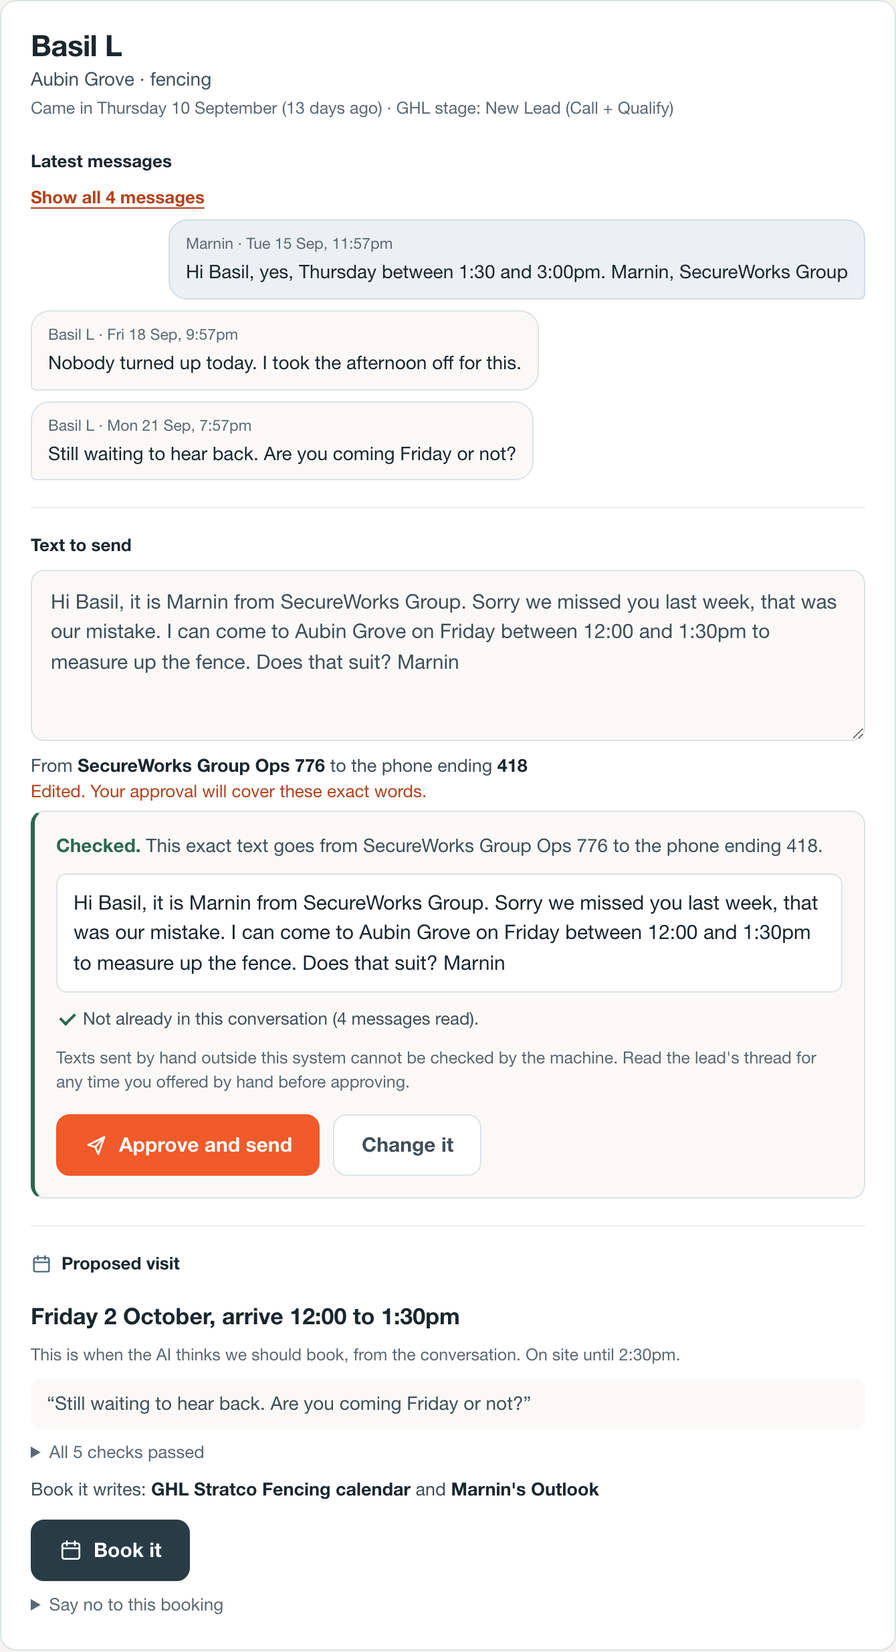
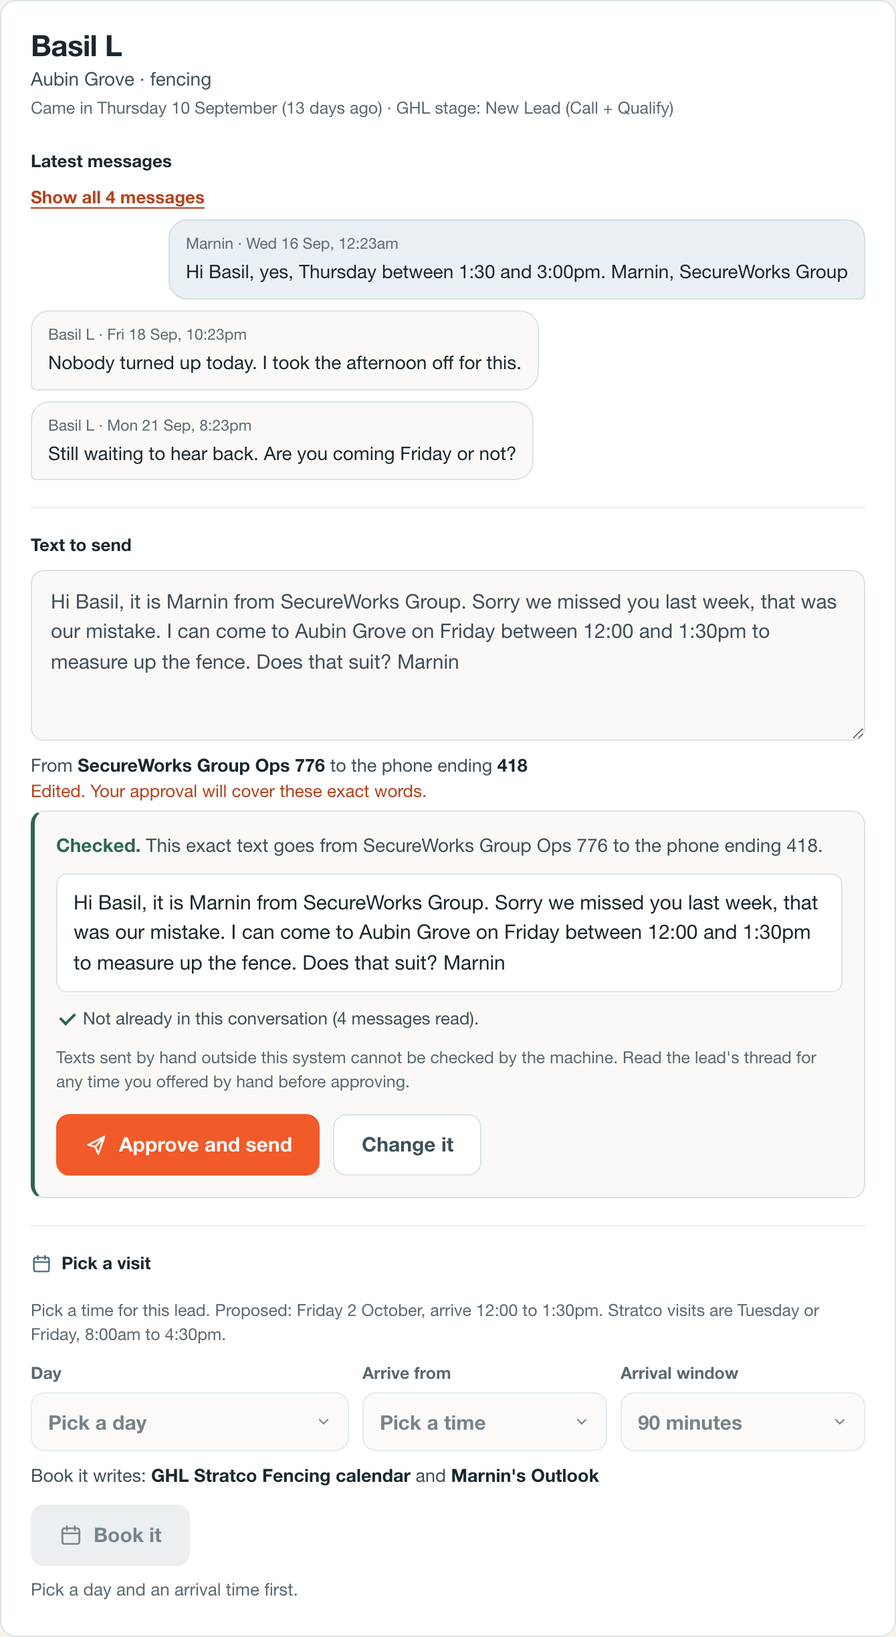
no-mistakes(review): Hold picked visits and refresh day occupancy

diff --git a/modules/ops-sales-booking.js b/modules/ops-sales-booking.js
@@ -1786,7 +1786,9 @@
     var a = Date.parse(startIso), b = Date.parse(endIso);
     if (!(b > a)) return null;
     var ev = diary().filter(function (row) {
-      return row.kind !== 'reservation' && diaryOccupiesDay(row) && Date.parse(row.start_iso) < b && Date.parse(row.end_iso) > a;
+      if (row.kind === 'reservation' || !diaryOccupiesDay(row)) return false;
+      if (c && ((row.contact_id && row.contact_id === c.contact_id) || diaryEventMatchesCase(row, c))) return false;
+      return Date.parse(row.start_iso) < b && Date.parse(row.end_iso) > a;
     })[0];
     if (ev) return { kind: 'calendar', label: eventTitle(ev), at: clockLabel(hourFromIso(ev.start_iso)), source: sourceLabel(ev) };
     var hold = commitmentSlots().filter(function (s) {
@@ -2862,25 +2864,22 @@
     return (ob && ob.rulebook) || (flow && flow.owner_rulebook) || null;
   }
 
-  function hasEngineProposal(c) {
-    var m = decisionModel(c);
-    return !!(m && m.proposal);
-  }
-
   // The engine's own template, unedited and pressable, stays on the engine path
-  // exactly as before. Anything else the owner writes goes the owner's way. A
-  // read that does not offer the owner's way leaves the screen as it was.
+  // exactly as before. A picked time, or anything else the owner writes, goes
+  // the owner's way so a sent text can hold that slot. A read that does not
+  // offer the owner's way leaves the screen as it was.
   function messagePath(c) {
     if (!ownerFlow()) return 'engine';
+    if (ownerVisit(c)) return 'owner';
     var m = decisionModel(c);
     if (m && editedText(c) == null && m.message && m.message.template_locked && m.message.text && approvalBlock(c, 'message', false, true) === '') return 'engine';
     return 'owner';
   }
 
-  // A lead with a proposed time keeps Book it for that time. Without one the
-  // owner picks the day and the arrival window himself.
+  // Every Stratco card on the owner's path gets a picker so a blocked or
+  // unwanted proposal is never the only time on that card.
   function calendarPath(c) {
-    return !ownerFlow() || hasEngineProposal(c) ? 'engine' : 'owner';
+    return ownerFlow() ? 'owner' : 'engine';
   }
 
   function minutesOf(clock) {
@@ -2925,7 +2924,7 @@
 
   function ownerPick(c) {
     var key = draftKey(c), rb = ownerRulebook(c);
-    if (!state.ownerVisits[key]) state.ownerVisits[key] = { date: '', start: '', minutes: rb ? Number(rb.window_max_minutes) : 90, offer: true };
+    if (!state.ownerVisits[key]) state.ownerVisits[key] = { date: '', start: '', minutes: rb ? Number(rb.window_max_minutes) : 90 };
     return state.ownerVisits[key];
   }
 
@@ -2942,19 +2941,11 @@
     return { window_start_iso: at(s), window_end_iso: at(s + minutes), end_iso: at(s + minutes + Number(rb.visit_minutes)) };
   }
 
-  // A text sent with a picked time carries it as the offer, so the server holds
-  // that time for this lead and refuses it to anyone else.
-  function ownerOffer(c) {
-    if (hasEngineProposal(c)) return null;
-    var pick = state.ownerVisits[draftKey(c)];
-    return pick && pick.offer !== false ? ownerVisit(c) : null;
-  }
-
   function ownerInput(c, kind) {
     var input = { step: kind, case_id: c.id, contact_id: c.contact_id, week_start: state.weekStart, resource: 'marnin' };
     if (kind === 'message') {
       input.text = composeText(c);
-      var offer = ownerOffer(c);
+      var offer = ownerVisit(c);
       if (offer) input.offer = offer;
     } else {
       input.visit = ownerVisit(c);
@@ -3123,8 +3114,64 @@
     result.input = preview.input;
     delete state.ownerPreviews[key];
     state.pressResults[key] = result;
+    if (result.done) rememberOccupancy(c, result);
     render();
     return { ok: !!result.done, result: result };
+  }
+
+  function occupancyVisit(result) {
+    var ct = result && result.snapshot && result.snapshot.content || {};
+    var offer = ct.offer;
+    if (offer && offer.window_start_iso && offer.end_iso) return { start: offer.window_start_iso, end: offer.end_iso, title: null, book: false };
+    if (ct.window_start_iso && ct.end_iso) return { start: ct.window_start_iso, end: ct.end_iso, title: ct.title || null, book: result.snapshot.step === 'calendar' };
+    if (ct.start_iso && ct.end_iso) return { start: ct.start_iso, end: ct.end_iso, title: ct.title || null, book: result.snapshot.step === 'calendar' };
+    return null;
+  }
+
+  function rememberOccupancy(c, result) {
+    if (!result || !result.done || !c || !state.data) return;
+    var visit = occupancyVisit(result);
+    if (!visit || !(Date.parse(visit.end) > Date.parse(visit.start))) return;
+    if (visit.book) rememberBookedVisit(c, visit);
+    else rememberOfferedVisit(c, visit);
+  }
+
+  function rememberBookedVisit(c, visit) {
+    var data = state.data;
+    if (!Array.isArray(data.diary)) data.diary = [];
+    var title = visit.title && /^scope:\s*/i.test(visit.title) ? visit.title
+      : ('Scope: ' + (c.display_name || 'visit') + (c.suburb ? ', ' + c.suburb : ''));
+    if (data.diary.some(function (ev) {
+      return (ev.contact_id && ev.contact_id === c.contact_id && (ev.start === visit.start || ev.start_iso === visit.start))
+        || (ev.start === visit.start && ev.end === visit.end && ev.title === title);
+    })) return;
+    data.diary.push({
+      event_id: 'owner-booked-' + (c.contact_id || c.id) + '-' + visit.start,
+      contact_id: c.contact_id,
+      opportunity_id: c.opportunity_id || c.id,
+      start: visit.start,
+      end: visit.end,
+      title: title,
+      kind: 'busy',
+      source: 'ghl_calendar',
+      blocks_capacity: true
+    });
+  }
+
+  function rememberOfferedVisit(c, visit) {
+    var flow = state.data.booking_flow;
+    if (!flow) return;
+    if (!Array.isArray(flow.commitments)) flow.commitments = [];
+    if (flow.commitments.some(function (s) {
+      return s.contact_id === c.contact_id && s.start_iso === visit.start && s.end_iso === visit.end;
+    })) return;
+    flow.commitments.push({
+      id: 'owner-offer-' + (c.contact_id || c.id) + '-' + visit.start,
+      contact_id: c.contact_id,
+      state: 'offered',
+      start_iso: visit.start,
+      end_iso: visit.end
+    });
   }
 
   // Busy while a check is open or anything is in flight, so the words and the
@@ -3183,11 +3230,12 @@
     var recipient = m && m.message && m.message.recipient;
     var block = ownerPressBlock(c, 'message');
     var last = state.pressResults[key];
-    var clash = clashFor(c);
+    var held = ownerVisit(c);
+    var clash = held ? clashForSpan(c, held.window_start_iso, held.end_iso) : clashFor(c);
     var out = '<p class="route">From <b>' + esc(senderShort(sender)) + '</b>' +
       (recipient ? ' to the phone ending <b>' + esc(phoneEnding(recipient)) + '</b>' : ' to the customer\'s mobile in GHL') + '</p>';
     if (m && editedText(c) != null) out += '<p class="edited">Edited. Your approval will cover these exact words.' + (composeBusy(c) ? '' : ' <button type="button" class="linklike" data-booking-draft-reset>Use the proposed text</button>') + '</p>';
-    out += renderOfferChoice(c);
+    if (held) out += '<p class="fine">This text holds ' + esc(visitWords(held)) + ' for them.</p>';
     if (clash) out += '<p class="clash">' + esc(clashSentence(clash)) + '</p>';
     if (preview) {
       out += renderOwnerPreview(c, 'message', preview);
@@ -3196,17 +3244,6 @@
         (block && !state.pressPending[key] && !state.approvalPending[key] && !(last && last.done) ? '<p class="why" id="why-message">' + esc(block) + '</p>' : '');
     }
     return out + (m ? channelLine(c, 'message') : '') + renderResult(c, 'message');
-  }
-
-  // With a picked time and no proposed one, the text carries that time as its
-  // offer unless the owner unticks it.
-  function renderOfferChoice(c) {
-    if (hasEngineProposal(c)) return '';
-    var v = ownerVisit(c);
-    if (!v) return '';
-    var pick = state.ownerVisits[draftKey(c)];
-    return '<label class="offer"><input type="checkbox" data-owner-offer data-focus-key="offer-' + esc(c.id) + '"' + (pick.offer !== false ? ' checked' : '') + (pickerBusy(c) ? ' disabled' : '') + '>' +
-      '<span>Hold ' + esc(visitWords(v)) + ' for them with this text</span></label>';
   }
 
   function renderOwnerVisit(c) {
@@ -3227,9 +3264,11 @@
     var last = state.pressResults[key];
     var clash = v && clashForSpan(c, v.window_start_iso, v.end_iso);
     var days = (rb.days || []).map(function (d) { return WEEKDAY_NAMES[d] || d; });
-    var lead = m && m.reason && m.reason !== 'No validated AI proposal in this read.'
-      ? 'No confident proposed time: ' + m.reason
-      : 'No proposed time for this lead, so pick one.';
+    var lead = m && m.proposal
+      ? 'Pick a time for this lead. Proposed: ' + longDate(String(m.proposal.window_start_iso || m.proposal.start_iso).slice(0, 10)) + ', arrive ' + timeRange(m.proposal.window_start_iso, m.proposal.window_end_iso) + '.'
+      : (m && m.reason && m.reason !== 'No validated AI proposal in this read.'
+        ? 'No confident proposed time: ' + m.reason
+        : 'No proposed time for this lead, so pick one.');
     var rules = days.length ? ' Stratco visits are ' + days.join(' or ') + ', ' + clockLabel(minutesOf(rb.day_start) / 60) + ' to ' + clockLabel(minutesOf(rb.day_end) / 60) + '.' : '';
     function option(value, label, on) { return '<option value="' + esc(value) + '"' + (on ? ' selected' : '') + '>' + esc(label) + '</option>'; }
     var picker = '<div class="pick">' +
@@ -3425,6 +3464,7 @@
       delete state.pressPending[key];
     }
     state.pressResults[key] = result;
+    if (result.done) rememberOccupancy(c, result);
     if (result.done && sameContent(approvalSnapshot(c, kind), snap)) {
       var channel = c.booking_read_model[kind === 'calendar' ? 'calendar_write' : 'message'];
       channel.state = 'succeeded';
@@ -3901,14 +3941,13 @@
         reviseProposedTime(e.target.value);
         render();
       }
-      if (e.target.matches && e.target.matches('[data-owner-visit], [data-owner-offer]')) {
+      if (e.target.matches && e.target.matches('[data-owner-visit]')) {
         var pc = selectedCase();
         if (!pc || pickerBusy(pc) || !ownerRulebook(pc)) return render();
         var pick = ownerPick(pc);
         var field = e.target.getAttribute('data-owner-visit');
         if (field === 'minutes') pick.minutes = Number(e.target.value);
         else if (field) pick[field] = e.target.value;
-        else pick.offer = !!e.target.checked;
         // A start the new day or window no longer allows is cleared, never kept.
         if (pick.start && ownerStarts(ownerRulebook(pc), pick.date, Number(pick.minutes)).indexOf(pick.start) < 0) pick.start = '';
         delete state.approvalErrors[approvalKey(pc, 'calendar')];

diff --git a/tests/e2e/sales-booking-redesign.spec.js b/tests/e2e/sales-booking-redesign.spec.js
@@ -40,10 +40,11 @@ for (const vp of viewports) {
       await expect(page.getByRole('button', { name: 'Show all 4 messages' })).toBeVisible();
       await expect(page.locator('.route')).toContainText('SecureWorks Group Ops 776');
       await expect(page.locator('.route')).toContainText('phone ending 418');
-      await expect(page.locator('.visit .when')).toContainText('arrive 12:00 to 1:30pm');
+      await expect(page.getByRole('combobox', { name: 'Visit day' })).toBeVisible();
+      await expect(page.locator('.visit .fine').first()).toContainText('arrive 12:00 to 1:30pm');
       await expect(page.locator('.targets')).toHaveText("Book it writes: GHL Stratco Fencing calendar and Marnin's Outlook");
       await expect(page.getByRole('button', { name: 'Send this text' })).toBeEnabled();
-      await expect(page.getByRole('button', { name: 'Book it' })).toBeEnabled();
+      await expect(page.getByRole('button', { name: 'Book it' })).toBeDisabled();
       const day = page.locator('.bk-day');
       await expect(day.locator('h2')).toContainText('Friday');
       await expect(day.locator('.src-outlook').first()).toBeVisible();
@@ -59,8 +60,8 @@ for (const vp of viewports) {
     test('a clash names the other booking and blocks booking, not the text', async ({ page }) => {
       await open(page);
       await choose(page, 'Kerry P');
-      await expect(page.locator('.visit .clash')).toHaveText('Clashes with Scope: Melanie N, Piara Waters at 10:45am (Outlook).');
       await expect(page.locator('.compose .clash')).toHaveText('Clashes with Scope: Melanie N, Piara Waters at 10:45am (Outlook).');
+      await expect(page.getByRole('combobox', { name: 'Visit day' })).toBeVisible();
       await expect(page.getByRole('button', { name: 'Book it' })).toBeDisabled();
       await expect(page.getByRole('button', { name: 'Send this text' })).toBeEnabled();
       const slot = page.locator('.bk-day .ev.is-clash', { hasText: 'Kerry P' });
@@ -153,8 +154,35 @@ for (const vp of viewports) {
       await page.getByRole('button', { name: 'Send this text' }).click();
       await expect(page.locator('.compose .result')).toContainText(/Text sent at \d{1,2}:\d{2}[ap]m from SecureWorks Group Ops 776 to the phone ending 418\./);
       await expect(page.getByRole('button', { name: 'Send this text' })).toBeDisabled();
+      const friday = await page.evaluate(() => SalesBooking.state.data.booking_flow.owner_rulebook.bookable_dates.filter((d) => new Date(d + 'T12:00:00Z').getUTCDay() === 5).pop());
+      await page.getByRole('combobox', { name: 'Visit day' }).selectOption(friday);
+      await page.getByRole('combobox', { name: 'Arrive from' }).selectOption('12:30');
+      await page.getByRole('combobox', { name: 'Arrival window' }).selectOption('60');
       await page.getByRole('button', { name: 'Book it' }).click();
+      await page.getByRole('button', { name: 'Approve and book' }).click();
       await expect(page.locator('.visit .result')).toContainText("in GHL Stratco Fencing calendar and Marnin's Outlook");
+    });
+
+    test('booking Priya occupies Friday so Basil must pick another time', async ({ page }) => {
+      await open(page);
+      await page.evaluate(() => { window.fixtureActionMode = 'sent'; });
+      const thisFri = await page.evaluate(() => SalesBooking.addDays(SalesBooking.state.data.week_start, 4));
+      await choose(page, 'Priya S');
+      await page.getByRole('combobox', { name: 'Visit day' }).selectOption(thisFri);
+      await page.getByRole('combobox', { name: 'Arrive from' }).selectOption('12:30');
+      await page.getByRole('combobox', { name: 'Arrival window' }).selectOption('60');
+      await page.getByRole('button', { name: 'Book it' }).click();
+      await page.getByRole('button', { name: 'Approve and book' }).click();
+      await expect(page.locator('.visit .result')).toContainText('Booked');
+      await expect(page.locator('.bk-day .ev', { hasText: 'Priya S' })).toBeVisible();
+      if (vp.name === 'phone') await page.getByRole('button', { name: 'All leads' }).click();
+      await choose(page, 'Basil L');
+      await expect(page.getByRole('combobox', { name: 'Visit day' })).toBeVisible();
+      await page.getByRole('combobox', { name: 'Visit day' }).selectOption(thisFri);
+      await page.getByRole('combobox', { name: 'Arrive from' }).selectOption('12:30');
+      await page.getByRole('combobox', { name: 'Arrival window' }).selectOption('60');
+      await expect(page.locator('.visit .clash')).toContainText('Priya');
+      await expect(page.getByRole('button', { name: 'Book it' })).toBeDisabled();
     });
 
     test('search keeps focus while typing and Refresh reads again', async ({ page }) => {

diff --git a/modules/ops-sales-booking.css b/modules/ops-sales-booking.css
@@ -227,8 +227,6 @@
 #salesBookingRoot .pick select:hover:not(:disabled){border-color:#C9D3D9}
 #salesBookingRoot .pick select:focus{outline:none;border-color:var(--accent);box-shadow:0 0 0 3px rgba(241,90,41,.16)}
 #salesBookingRoot .pick select:disabled{background-color:var(--surface-2);color:var(--ink-2);cursor:not-allowed}
-#salesBookingRoot .offer{display:flex;align-items:flex-start;gap:9px;font-size:13.5px;color:var(--ink-2);cursor:pointer}
-#salesBookingRoot .offer input{width:17px;height:17px;margin:2px 0 0;accent-color:var(--accent);flex:none}
 #salesBookingRoot .ownercheck{display:grid;gap:10px;margin-top:4px;padding:14px 16px 16px;border:1px solid var(--line);border-left:3px solid var(--ok);border-radius:10px;background:var(--surface-2);animation:bk-in .25s cubic-bezier(.2,.8,.2,1)}
 #salesBookingRoot .oc-head{font-size:14px;color:var(--ink-2)}
 #salesBookingRoot .oc-head strong{color:var(--ok);font-weight:650}

diff --git a/scripts/sales-booking-owner-shot.js b/scripts/sales-booking-owner-shot.js
@@ -24,9 +24,16 @@ const URL = base + '/tests/fixtures/booking-confirm/friday.html';
       await page.getByRole('combobox', { name: 'Arrive from' }).selectOption(start);
       await page.getByRole('combobox', { name: 'Arrival window' }).selectOption(minutes);
     };
+    const choose = async (name) => {
+      const back = page.getByRole('button', { name: 'All leads' });
+      if (await back.isVisible()) await back.click();
+      await page.locator('.bk-list .lead', { hasText: name }).click();
+    };
 
     await page.goto(URL);
-    await page.locator('.bk-list .lead', { hasText: 'Priya S' }).click();
+    await choose('Basil L');
+    await shot('basil-picker');
+    await choose('Priya S');
     await pick('12:30', '60');
     await shot('picker');
     await page.getByRole('button', { name: 'Book it' }).click();

diff --git a/docs/sales-booking-ui.md b/docs/sales-booking-ui.md
@@ -8,7 +8,7 @@ The card shows the last three GHL messages verbatim, the proposed text (editable
 
 **Send this text** and **Book it** each do three things on one press: record the owner's approval of the exact content on screen through `sales_booking_approval_write`, call `sales_booking_send` or `sales_booking_book` with `{approval_id}` (the approval's `id`, else its `binding_hash`), then state the result in words (sent, booked, trial run, refused with the reason, or unclear). A booked result names the write's `written` calendars when present, else the same Book it targets. The text box locks, draft focus is not restored, and **Use the proposed text** is hidden and ignored, while an approval or send/book is in flight, so the words on screen cannot change until the result is shown; if the snapshot then no longer matches the words that were approved, the executor call is aborted. On a read without the owner's path, an edited text is approved as the edited words: the snapshot carries `variant: "edited"` and a `content_hash` computed exactly as ops-api `bookingContentHash` does (key-sorted canonical JSON, SHA-256), so the approval covers nothing else; with the owner's path an edit goes through the check below instead. Typing the proposed words back returns to the producer's own template and hash. When an action does not exist yet (unknown action), the card says sending or booking is not connected yet and that nothing was sent or booked; it never fakes success. An unclear answer blocks another press until a fresh read. Only Marnin's Stratco profile can approve here, and identity stays the GHL contact id. Uncertain proposals say Needs a person and give the reason. GHL calendar read errors never paint free capacity. Diary occupancy and booked-visit matching use exact GHL `contact_id`, `opportunity_id` or `event_id` (or a `Scope:` title); name and suburb never identify a visit.
 
-**The owner's own text or visit** (`owner-authored-v1`, backend PR https://github.com/SecureWorks-GROUP/secureworks-backend/pull/900, contract section "Owner-authored approvals" in backend `docs/sales-booking-confirmation-api.md`). When the read advertises `booking_flow.owner_approval_write: "owner-authored-v1"` and the case carries an eligible `owner_booking`, the owner can write or edit the text on any lead's card, and a lead with no proposed time gets a small **Pick a visit** picker (day, arrive from, arrival window) built only from the read's rulebook (`bookable_dates`, hours, window lengths, visit length, protected band with travel either side). An unedited engine proposal still takes the engine path above, unchanged. On the owner's path each step is two presses: **Send this text** or **Book it** asks the server to check (`owner_input` with `dry_run`), and the card shows what the server built, exactly (the text and the line and phone it goes between, or the visit, title and address and the calendars it goes in), with the checks in words; **Approve and send** or **Approve and book** then records the approval with that check's `prepared_at` and `content_hash`, calls `sales_booking_send` or `sales_booking_book` with the returned `approval_id`, and states the result. **Change it** drops the check. While a check is open or anything is in flight, the text box and the picker are locked; a change after the check, or a check older than 15 minutes, is never approved. A text sent while a time is picked carries that time as its `offer` (so the server holds it against other leads) unless the owner unticks it. A named refusal is one plain sentence beside the button, naming the clashing entry when the server does. When the read does not advertise the owner's path, the screen behaves exactly as before; when the server answers the owner's path as an unknown action, the card says it is not connected yet and nothing was sent or booked.
+**The owner's own text or visit** (`owner-authored-v1`, backend PR https://github.com/SecureWorks-GROUP/secureworks-backend/pull/900, contract section "Owner-authored approvals" in backend `docs/sales-booking-confirmation-api.md`). When the read advertises `booking_flow.owner_approval_write: "owner-authored-v1"` and the case carries an eligible `owner_booking`, the owner can write or edit the text on any lead's card, and every lead gets a small **Pick a visit** picker (day, arrive from, arrival window) built only from the read's rulebook (`bookable_dates`, hours, window lengths, visit length, protected band with travel either side). An unedited engine text still takes the engine path above until a time is picked; Book it is always the owner's two-press path. On the owner's path each step is two presses: **Send this text** or **Book it** asks the server to check (`owner_input` with `dry_run`), and the card shows what the server built, exactly (the text and the line and phone it goes between, or the visit, title and address and the calendars it goes in), with the checks in words; **Approve and send** or **Approve and book** then records the approval with that check's `prepared_at` and `content_hash`, calls `sales_booking_send` or `sales_booking_book` with the returned `approval_id`, and states the result. **Change it** drops the check. While a check is open or anything is in flight, the text box and the picker are locked; a change after the check, or a check older than 15 minutes, is never approved. A text sent while a time is picked always carries that time as its `offer` so the server holds it against other leads. A successful book or offer is added to the day's occupancy so the column and the other cards' clash gates agree with GHL and Outlook without Refresh. A named refusal is one plain sentence beside the button, naming the clashing entry when the server does. When the read does not advertise the owner's path, the screen behaves exactly as before; when the server answers the owner's path as an unknown action, the card says it is not connected yet and nothing was sent or booked.
 
 Booked visits support Happened or Did not happen, with one of three reasons for the latter. Quote owed defaults on for Happened and can be unticked. Until `booking_flow.visit_outcomes_read` is `complete`, the visit-outcomes block inside Details is only the calm line "Visit outcomes are not connected yet". When that read is complete, the last seven days' visits without an outcome appear under the list as visits to close out, and other booked visits stay in the Details history fold. Corrections append a superseding record; recording sends no message.
 

diff --git a/AGENTS.md b/AGENTS.md
@@ -544,10 +544,12 @@ text / Book it press records `sales_booking_approval_write` for the exact
 content on screen, then calls `sales_booking_send` / `sales_booking_book` with
 `{approval_id}` and states the result in words; an unknown action reads "not
 connected yet", never success. When the read advertises `owner-authored-v1`,
-the owner's own or edited text and a picked visit (no engine proposal) take two
+the owner's own or edited text and every picked visit take two
 presses instead: an `owner_input` `dry_run` check shown back exactly, then
 Approve with that check's `prepared_at` + `content_hash`, then the executor; an
-unedited engine proposal keeps the one-press engine path. An edited text is
+unedited engine text keeps the one-press engine path until a time is picked.
+Every card has a visit picker. A successful book or offer updates occupancy.
+A picked visit is always held with the text. An edited text is
 bound by the browser's copy of ops-api `bookingContentHash` (`sha256Hex` + `canonicalJson`), so keep the two in
 step. Contract and copy: `docs/sales-booking-ui.md`,
 `docs/booking-confirm-contract.md`. Guards: `npm run test:sales-booking` (runs in
